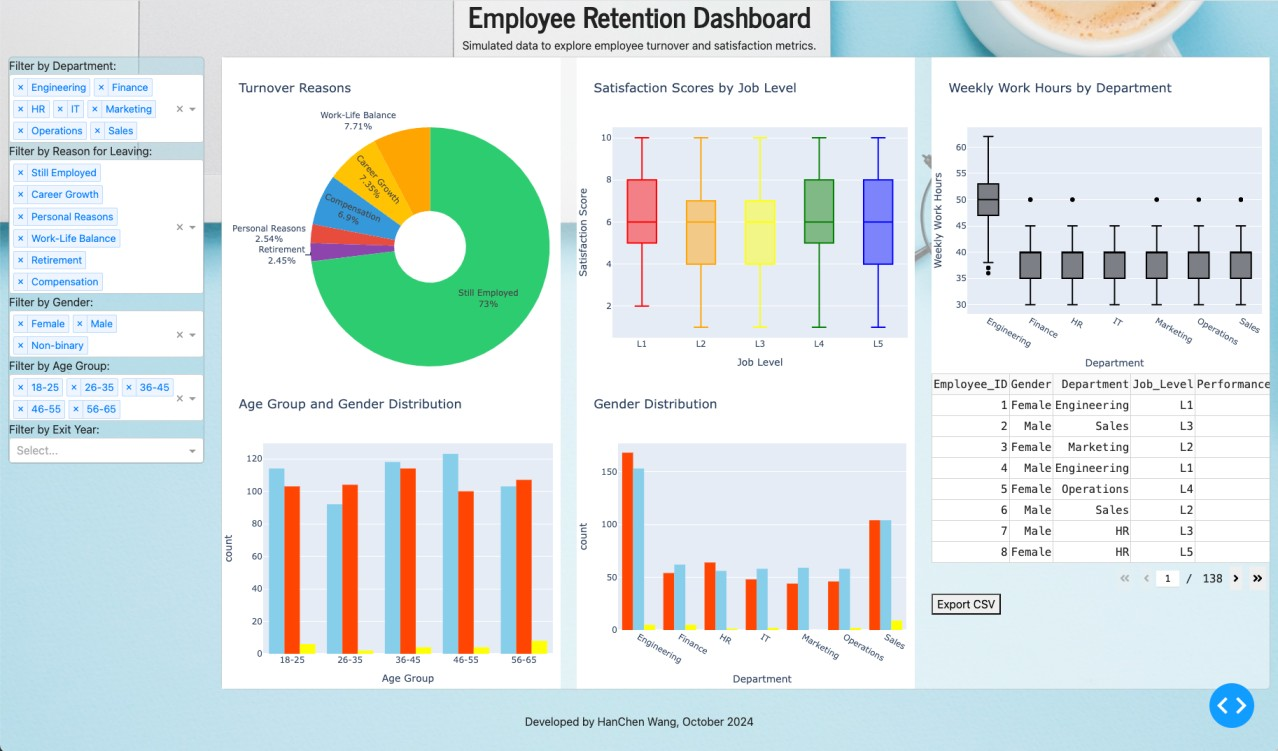
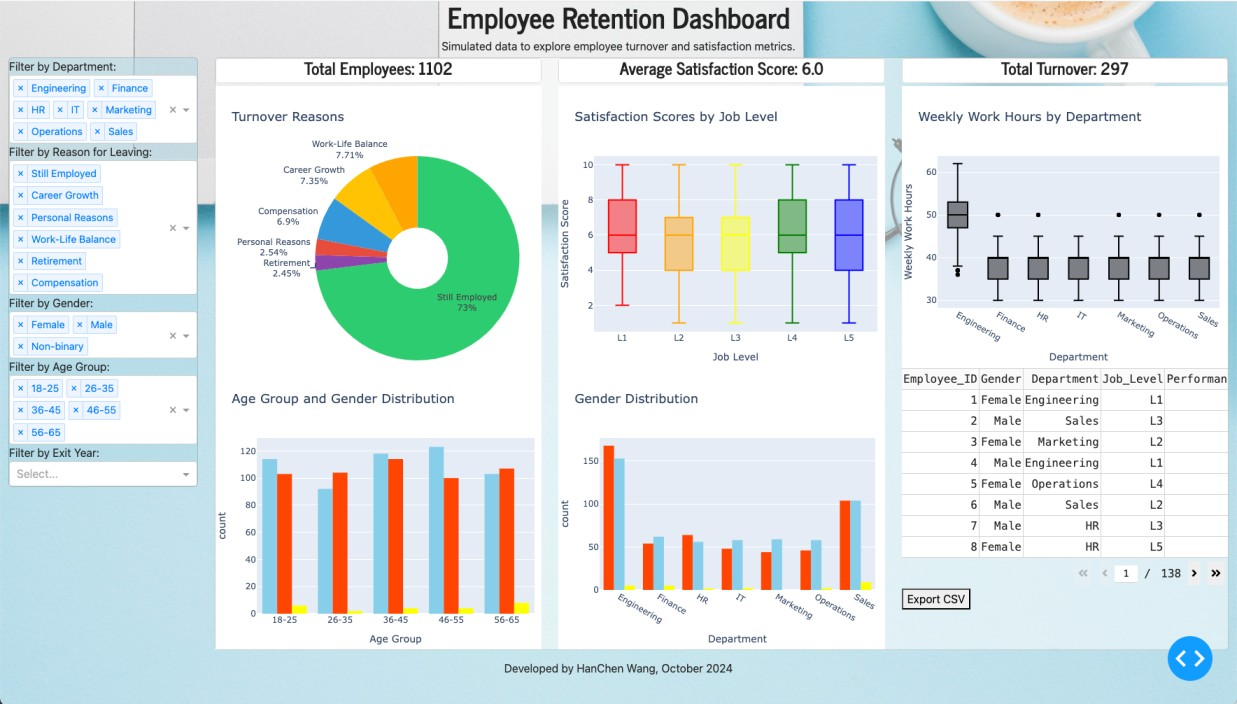
Adding stats bar

Changed region(s): [[0.0, 0.0, 1.0, 0.9688], [0.4301, 0.4688, 1.0, 0.875]]

diff --git a/app.py b/app.py
@@ -50,6 +50,8 @@ app.layout = dbc.Container([
     html.H1("Employee Retention Dashboard", className="text-center"),
     html.P("Simulated data to explore employee turnover and satisfaction metrics.", className="mb-1 text-center"),
 
+# Statistics Bar
+    
     dbc.Row([
         # Left Column Wrapped in Card with Minimal Padding
         dbc.Col(
@@ -98,6 +100,12 @@ app.layout = dbc.Container([
         dbc.Col(
             dbc.Card([
                 dbc.CardBody([
+                    dbc.Row([
+                        dbc.Col(dbc.Card(dbc.CardBody(html.H4(id='total-employees', className='card-title'), style={'backgroundColor': 'rgba(255, 255, 255, 0.5)', 'padding': '0px'})), width=4),
+                        dbc.Col(dbc.Card(dbc.CardBody(html.H4(id='avg-satisfaction', className='card-title'), style={'backgroundColor': 'rgba(255, 255, 255, 0.5)', 'padding': '0px'})), width=4),
+                        dbc.Col(dbc.Card(dbc.CardBody(html.H4(id='total-turnover', className='card-title'), style={'backgroundColor': 'rgba(255, 255, 255, 0.5)', 'padding': '0px'})), width=4),
+                    ], className="mb-1 text-center"),
+                    
                     # Visualization Section
                     dbc.Row([
                         dbc.Col([
@@ -109,7 +117,7 @@ app.layout = dbc.Container([
                         dbc.Col([
                             dcc.Graph(id='average-work-hours', style={'padding': '0px', 'height': '100%'}),
                         ], width=4),
-                    ], style={'height': '42vh'}),  # First Row of Graphs
+                    ], style={'height': '40vh'}),  # First Row of Graphs
 
                     dbc.Row([
                         dbc.Col([
@@ -129,11 +137,11 @@ app.layout = dbc.Container([
                             html.Button("Export CSV", id="export-button", n_clicks=0),
                             dcc.Download(id="download-dataframe-csv"),
                         ], width=4),
-                    ], style={'height': '42vh'}),  # Second Row of Graphs
+                    ], style={'height': '40vh'}),  # Second Row of Graphs
                 ], style={'padding': '0'}),
             ], style={'backgroundColor': 'rgba(255, 255, 255, 0.5)', 'padding': '0px'})  # White with 50% opacity and minimal padding
         , width=10)  # Right Column for Visualizations and Preview
-    ], className="mb-4"),
+    ], className="mb-1"),
 
     # Footer
     html.Footer("Developed by HanChen Wang, October 2024", style={'textAlign': 'center', 'padding': '10px'})
@@ -155,6 +163,9 @@ app.layout = dbc.Container([
         Output('age-group-distribution', 'figure'),
         Output('gender-distribution', 'figure'),
         Output('data-preview', 'data'),
+        Output('total-employees', 'children'),
+        Output('avg-satisfaction', 'children'),
+        Output('total-turnover', 'children'),
     ],
     [
         Input('department-filter', 'value'),
@@ -176,6 +187,11 @@ def update_dashboard(department_filter, reason_filter, gender_filter, age_group_
     # Filter by exit year if selected
     if exit_year_filter:
         filtered_data = filtered_data[filtered_data['End_Date'].dt.year.isin(exit_year_filter)]
+    
+    # Calculate statistics
+    total_employees = f"Total Employees: {len(filtered_data)}"
+    avg_satisfaction = f"Average Satisfaction Score: {filtered_data['Satisfaction_Score'].mean().round(2) if len(filtered_data) > 0 else 0}"
+    total_turnover = f"Total Turnover: {len(filtered_data[filtered_data['Reason_for_Leaving'] != 'Still Employed'])}"
 
     # Turnover Reasons by Department
     turnover_reasons = filtered_data[filtered_data['Reason_for_Leaving'].notna()]
@@ -228,7 +244,7 @@ def update_dashboard(department_filter, reason_filter, gender_filter, age_group_
     # Return filtered data for the table
     data_preview = filtered_data.to_dict('records')
 
-    return turnover_fig, satisfaction_fig, avg_work_hours_fig, age_group_fig, gender_fig, data_preview
+    return turnover_fig, satisfaction_fig, avg_work_hours_fig, age_group_fig, gender_fig, data_preview, total_employees, avg_satisfaction, total_turnover
 
 # Export button callback
 @app.callback(
